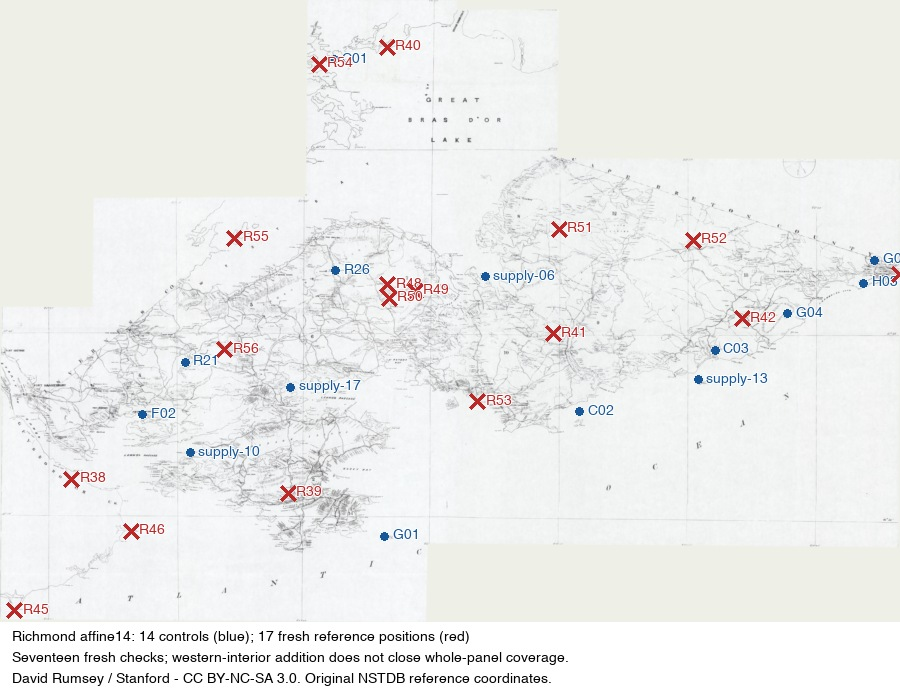
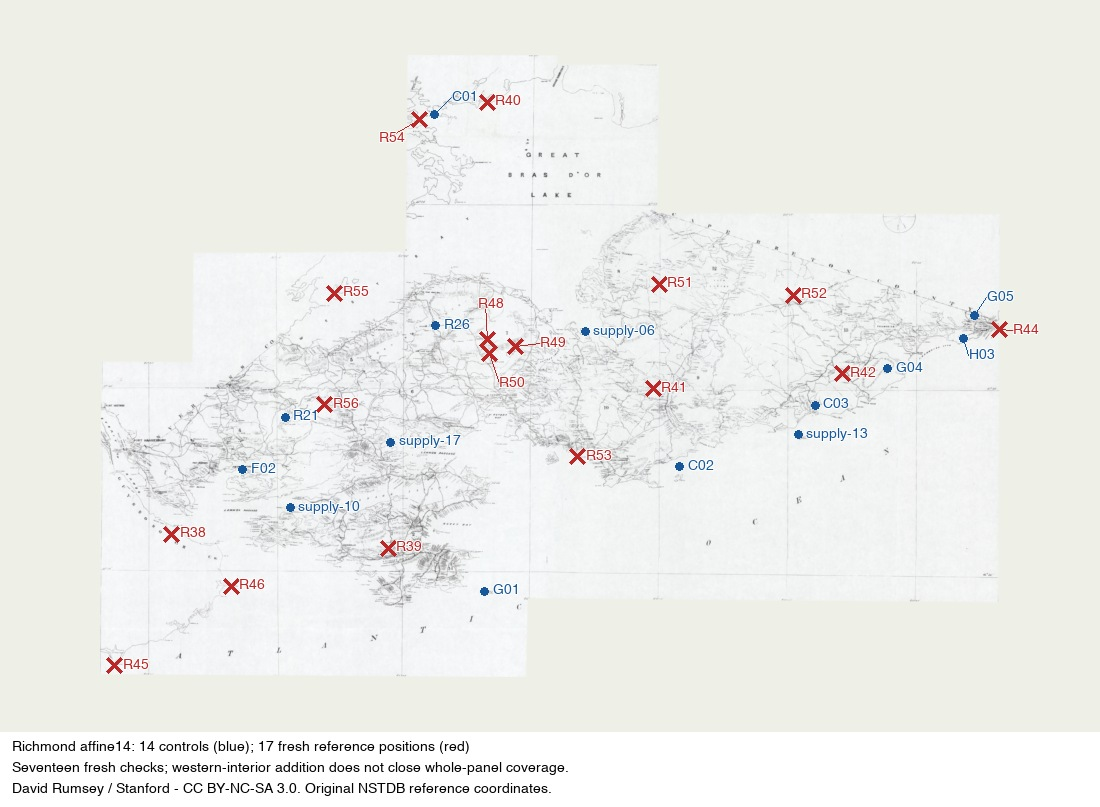
docs(church): keep Richmond coverage labels visible

diff --git a/reports/church/richmond-interior-validation-20260916/render_coverage_overview.py b/reports/church/richmond-interior-validation-20260916/render_coverage_overview.py
@@ -1,14 +1,17 @@
-"""Plot reference control/check distribution on the unchanged review raster."""
+"""Show all reference positions without clipping labels at the raster edge."""
 from pathlib import Path
 from osgeo import gdal
 from PIL import Image,ImageDraw,ImageFont
 import numpy as np,json,hashlib
 from tools.church.gcps import load_gcps
 from tools.church.geometry import lonlat_to_mercator
-gdal.UseExceptions();r=Path(__file__).resolve().parent;f=json.loads((r/'freeze.json').read_text());d=gdal.Open(f['raster']);width=900;height=round(d.RasterYSize/d.RasterXSize*width);v=gdal.Translate('',d,format='MEM',width=width,height=height,resampleAlg='bilinear');im=Image.new('RGBA',(width,height+75),'#eef0e8');im.alpha_composite(Image.fromarray(np.moveaxis(v.ReadAsArray(),0,2)));dr=ImageDraw.Draw(im);font=ImageFont.truetype('/System/Library/Fonts/Helvetica.ttc',14);inv=gdal.InvGeoTransform(d.GetGeoTransform());points=[]
+gdal.UseExceptions();r=Path(__file__).resolve().parent;f=json.loads((r/'freeze.json').read_text());ds=gdal.Open(f['raster']);width=900;height=round(ds.RasterYSize/ds.RasterXSize*width);left,top=100,55;cw,ch=width+200,height+110+75
+v=gdal.Translate('',ds,format='MEM',width=width,height=height,resampleAlg='bilinear');im=Image.new('RGBA',(cw,ch),'#eef0e8');im.alpha_composite(Image.fromarray(np.moveaxis(v.ReadAsArray(),0,2)),(left,top));d=ImageDraw.Draw(im);font=ImageFont.truetype('/System/Library/Fonts/Helvetica.ttc',14);inv=gdal.InvGeoTransform(ds.GetGeoTransform());points=[]
+offsets={'C01':(18,-25),'R54':(-40,12),'R48':(-10,-43),'R49':(25,-10),'R50':(10,23),'G05':(12,-25),'H03':(5,10),'R44':(14,-6)}
 for p in load_gcps(r/'fresh-validation.csv'):
- col,row=gdal.ApplyGeoTransform(inv,*lonlat_to_mercator(p.lon,p.lat));x=col/d.RasterXSize*width;y=row/d.RasterYSize*height;color='#bc2828' if p.role=='check' else '#17589a'
- if p.role=='check':dr.line((x-7,y-7,x+7,y+7),fill=color,width=3);dr.line((x-7,y+7,x+7,y-7),fill=color,width=3)
- else:dr.ellipse((x-4,y-4,x+4,y+4),fill=color)
- dr.text((x+8,y-8),p.label,fill=color,font=font,stroke_width=1,stroke_fill='white');points.append({'id':p.label,'role':p.role,'lonlat':[p.lon,p.lat],'display_xy':[x,y]})
-dr.rectangle((0,height,width,height+75),fill='white');dr.text((12,height+8),'Richmond affine14: 14 controls (blue); 17 fresh reference positions (red)',font=font,fill='black');dr.text((12,height+29),'Seventeen fresh checks; western-interior addition does not close whole-panel coverage.',font=font,fill='black');dr.text((12,height+50),'David Rumsey / Stanford - CC BY-NC-SA 3.0. Original NSTDB reference coordinates.',font=font,fill='black');out=r/'coverage-overview.jpg';im.convert('RGB').save(out,quality=93);out.with_suffix('.json').write_text(json.dumps({'raster_sha256':f['raster_sha256'],'figure_sha256':hashlib.sha256(out.read_bytes()).hexdigest(),'points':points,'scope':'Reference-location distribution only; no point taken from this overview'},indent=2)+'\n')
+ col,row=gdal.ApplyGeoTransform(inv,*lonlat_to_mercator(p.lon,p.lat));x=left+col/ds.RasterXSize*width;y=top+row/ds.RasterYSize*height;color='#bc2828' if p.role=='check' else '#17589a';dx,dy=offsets.get(p.label,(8,-8));tx,ty=x+dx,y+dy
+ if p.label in offsets:d.line((x,y,tx+(8 if dx<0 else 0),ty+7),fill=color,width=1)
+ if p.role=='check':d.line((x-7,y-7,x+7,y+7),fill=color,width=3);d.line((x-7,y+7,x+7,y-7),fill=color,width=3)
+ else:d.ellipse((x-4,y-4,x+4,y+4),fill=color)
+ bbox=d.textbbox((tx,ty),p.label,font=font,stroke_width=1);assert bbox[0]>=0 and bbox[1]>=0 and bbox[2]<=cw and bbox[3]<ch-75;d.text((tx,ty),p.label,fill=color,font=font,stroke_width=1,stroke_fill='white');points.append({'id':p.label,'role':p.role,'lonlat':[p.lon,p.lat],'display_xy':[x,y],'label_xy':[tx,ty]})
+y=ch-75;d.rectangle((0,y,cw,ch),fill='white');d.text((12,y+8),'Richmond affine14: 14 controls (blue); 17 fresh reference positions (red)',font=font,fill='black');d.text((12,y+29),'Seventeen fresh checks; western-interior addition does not close whole-panel coverage.',font=font,fill='black');d.text((12,y+50),'David Rumsey / Stanford - CC BY-NC-SA 3.0. Original NSTDB reference coordinates.',font=font,fill='black');dest=r/'coverage-overview.jpg';im.convert('RGB').save(dest,quality=93);dest.with_suffix('.json').write_text(json.dumps({'raster_sha256':f['raster_sha256'],'figure_sha256':hashlib.sha256(dest.read_bytes()).hexdigest(),'map_rect':[left,top,width,height],'points':points,'scope':'Reference-location distribution only. Margin and label leaders do not alter the raster extent or observation coordinates.'},indent=2)+'\n')
